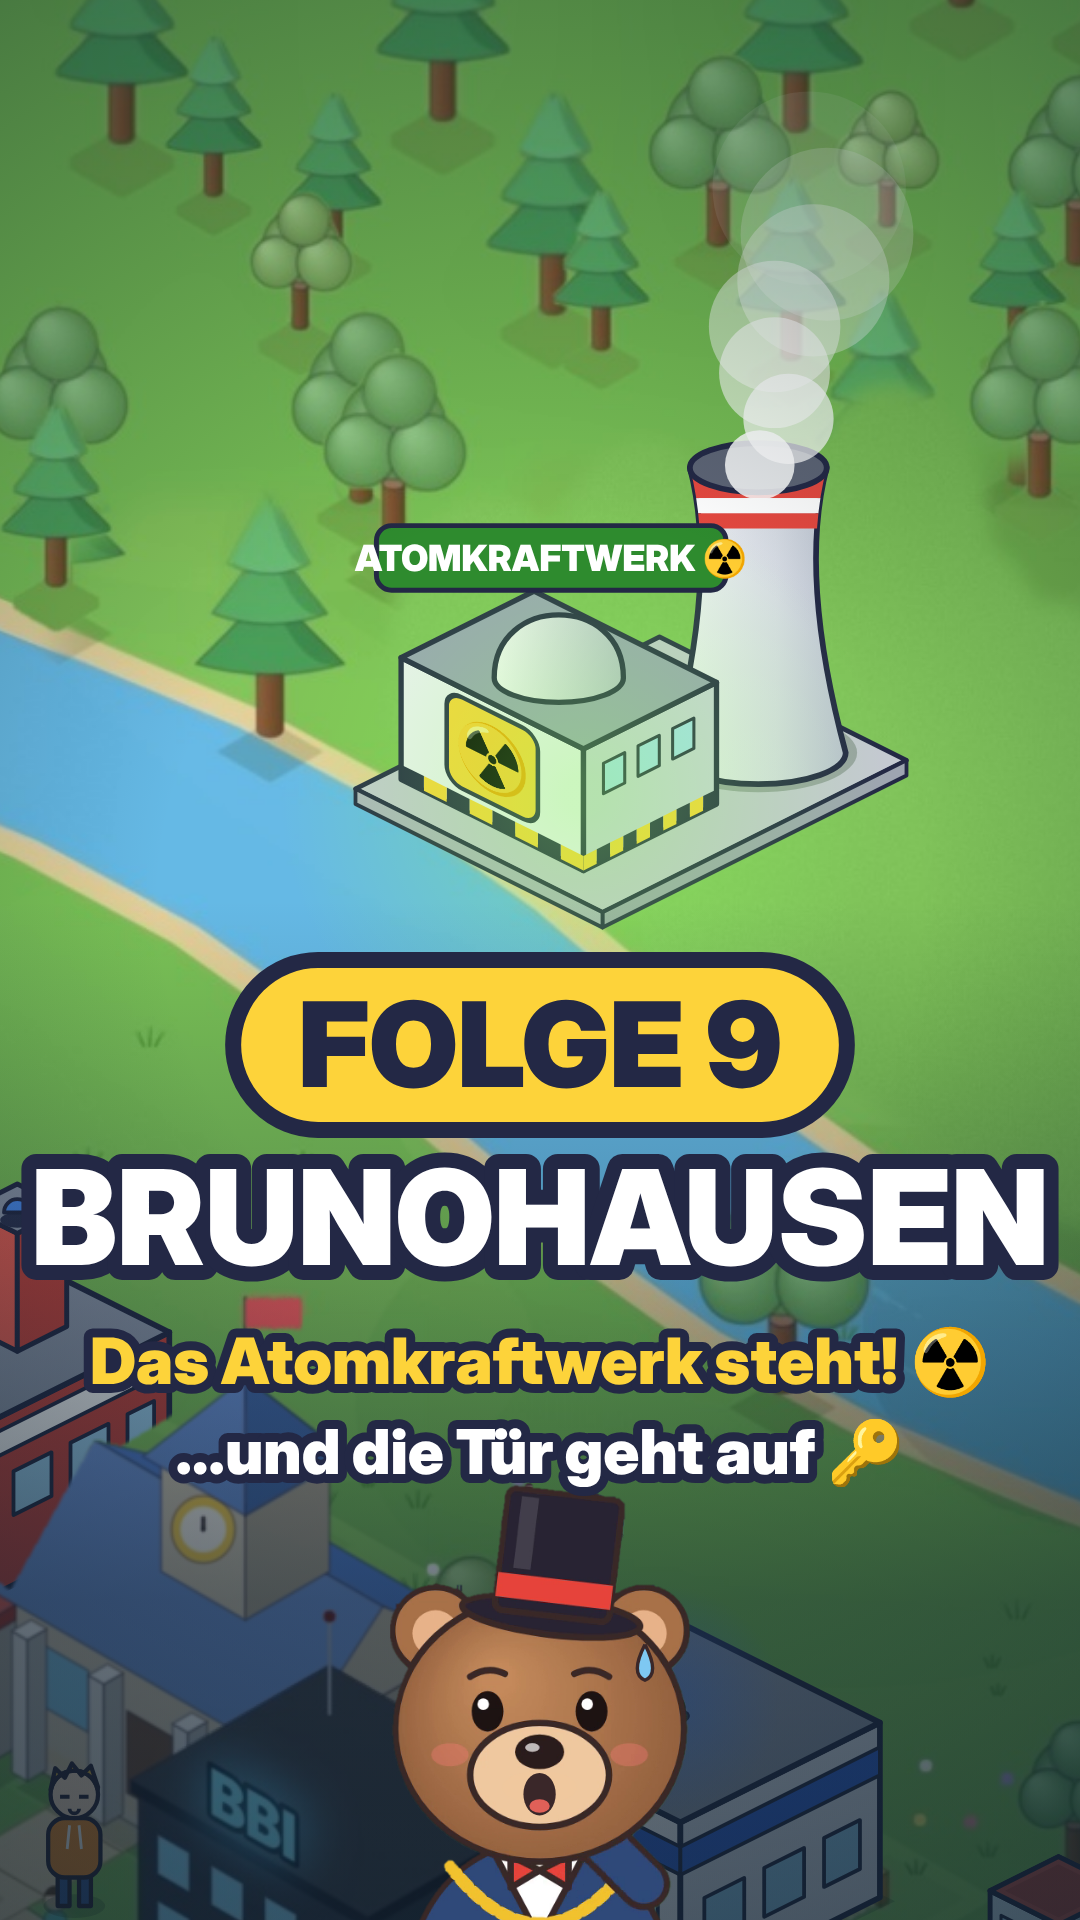
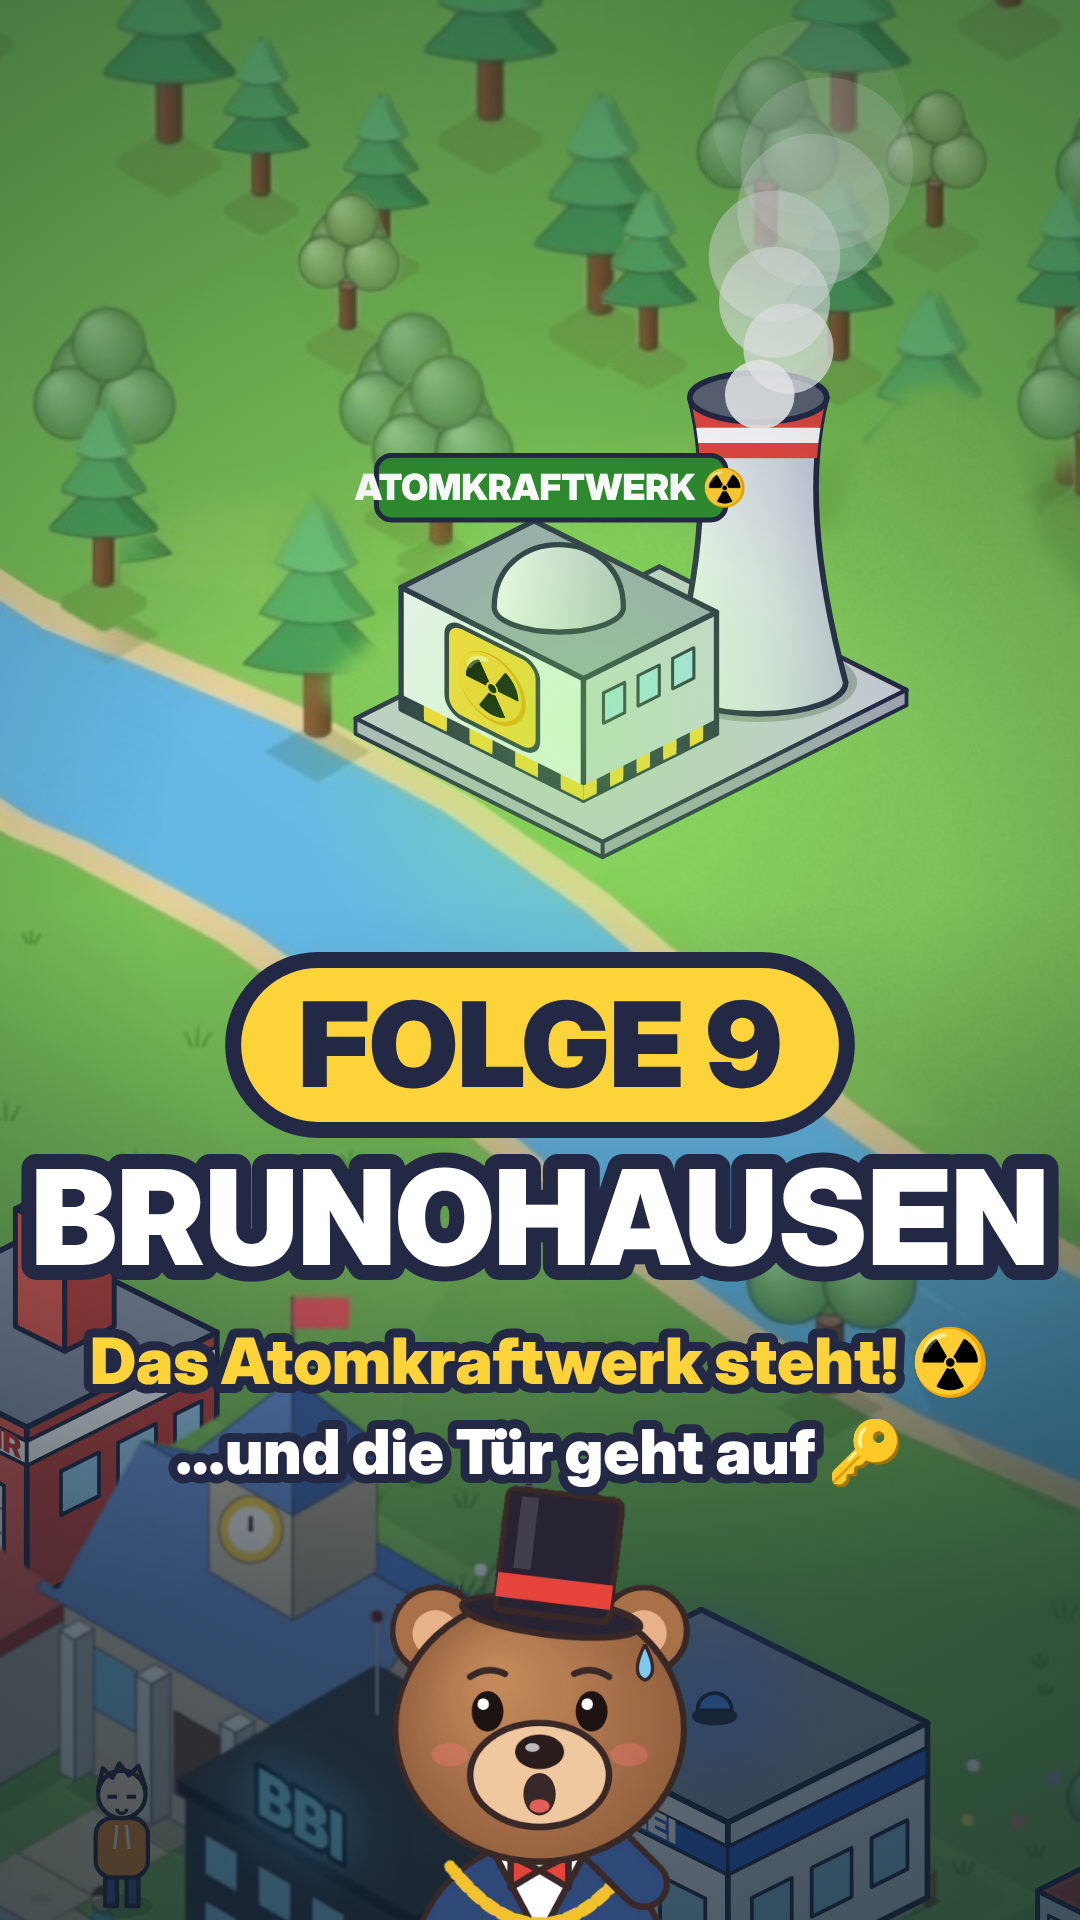
AKW weg vom Wasser auf festen Boden (Video + Website)
Claude-Session: https://claude.ai/code/session_01Pr66hNnRLfcFYWMz66UZwJ

diff --git a/index.html b/index.html
@@ -710,12 +710,12 @@ const DLOT = { x: 1.0, y: 8.7, w: 2.6, d: 2.3 }, FLOT = { x: 0.7, y: 0.6, w: 3.0
 const RAT = { x: 4.2, y: 2.2, w: 3.6, d: 2.4 };
 const KLOT = { x: -2.6, y: 0.9, w: 2.4, d: 2.2 };
 const SLOT = { x: -2.5, y: 8.7, w: 1.9, d: 1.7 };
-const ALOT = { x: 11.6, y: -4.9, w: 3.0, d: 2.0 }; // Atomkraftwerk-Bauplatz am Fluss
+const ALOT = { x: 11.6, y: -3.6, w: 3.0, d: 2.0 }; // Atomkraftwerk-Bauplatz am Fluss
 const HLOTS = [{ x: 4.6, y: -3.7, w: 1.5, d: 1.4 }, { x: 6.6, y: -3.7, w: 1.5, d: 1.4 }, { x: 8.6, y: -3.7, w: 1.5, d: 1.4 }];
 const inFoot = (x, y, b, m = 0.6) => x > b.x - m && x < b.x + b.w + m && y > b.y - m && y < b.y + b.d + m;
 const BLOCK = [MARKET, BBI, RAT, DLOT, FLOT, PLOT];
 const free = (x, y) => x > 0.4 && x < 11.6 && y > 1.6 && y < 12.6 && !BLOCK.some(b => inFoot(x, y, b, 0.35)) && Math.hypot(x - 6, y - 8) > 1.25;
-const FOCUS = { rathaus: [6, 3.4], brunnen: [6, 8], wege: [6, 9.5], markt: [2.5, 5.4], bbi: [9.4, 5.4], doener: [2.3, 9.8], feuer: [2.2, 1.9], polizei: [10, 1.9], mfh: [7.3, -2.8], kh: [-1.2, 2.2], schluessel: [-1.5, 9.6], akw: [13.1, -3.6] };
+const FOCUS = { rathaus: [6, 3.4], brunnen: [6, 8], wege: [6, 9.5], markt: [2.5, 5.4], bbi: [9.4, 5.4], doener: [2.3, 9.8], feuer: [2.2, 1.9], polizei: [10, 1.9], mfh: [7.3, -2.8], kh: [-1.2, 2.2], schluessel: [-1.5, 9.6], akw: [13.1, -2.3] };
 const rr = rnd(91), COLS = ['#ff7a59', '#4d9be6', '#b06ad6', '#3fbf8f', '#f2b134', '#e85d8a', '#5ac8c8', '#8a6cff', '#ff9f1c', '#2ec4b6', '#e71d36', '#7b2cbf'];
 const WALK = [];
 // Besitzer stehen vor ihrem Gebäude und laufen nur ein kleines Stück hin und her

diff --git a/studio/folge9/main9.js b/studio/folge9/main9.js
@@ -1,7 +1,7 @@
 // ===================== FOLGE 9 =====================
 // Stand vorher (Folge 8): 636 Follower, 144 Einwohner, 19.500 € Kasse
 // Folge 9: 674 Follower (+38 = +19.000 €), AKW −20.000 €, 5 neue Einwohner (nur wer kommentiert hat)
-const AKWP=[790,515];           // Vorderkante Reaktorhalle, oberhalb vom Fluss
+const AKWP=[765,478];           // Vorderkante Reaktorhalle, oberhalb vom Fluss
 const F9_NEW=['Janosch','Justin','Lionell','Lisa','Gastelgott'];
 const F9_FOLLOW0=636,F9_FOLLOW1=674,F9_EINW0=144,F9_KASSE0=19500;
 let NEW9=[],COINS=[],FELIX=null,LISA=null,GASTEL=null,ALREADY=[];

diff --git a/studio/folge9/clear9.py b/studio/folge9/clear9.py
@@ -2,7 +2,7 @@ from PIL import Image, ImageDraw, ImageFilter
 import numpy as np
 im=Image.open('plateD.jpg').convert('RGB');W,H=im.size
 a=np.asarray(im).astype(np.float32)
-poly=[(680,425),(735,372),(830,358),(960,378),(1050,425),(1080,445),(1080,712),(1040,700),(960,650),(880,592),(800,522),(720,462),(690,445)]
+poly=[(625,420),(700,345),(830,322),(960,350),(1050,410),(1080,440),(1080,712),(1040,700),(960,650),(880,592),(800,522),(720,462),(660,440)]
 pm=Image.new('L',(W,H),0);ImageDraw.Draw(pm).polygon(poly,fill=255)
 inside=np.asarray(pm)>0
 # Stämme finden (braun)
